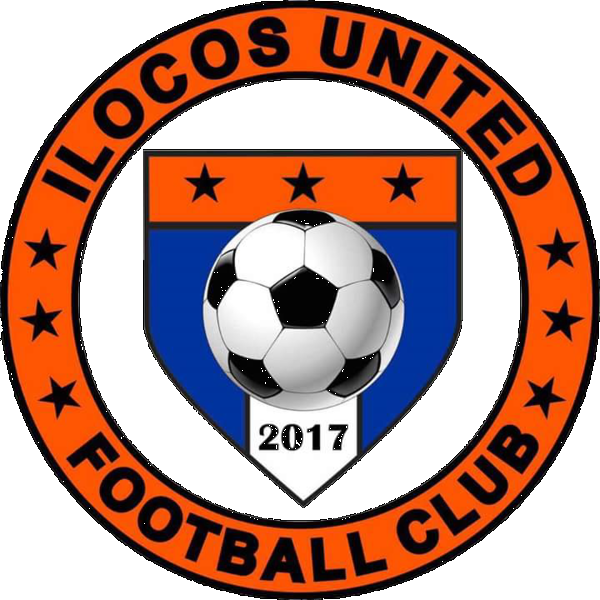
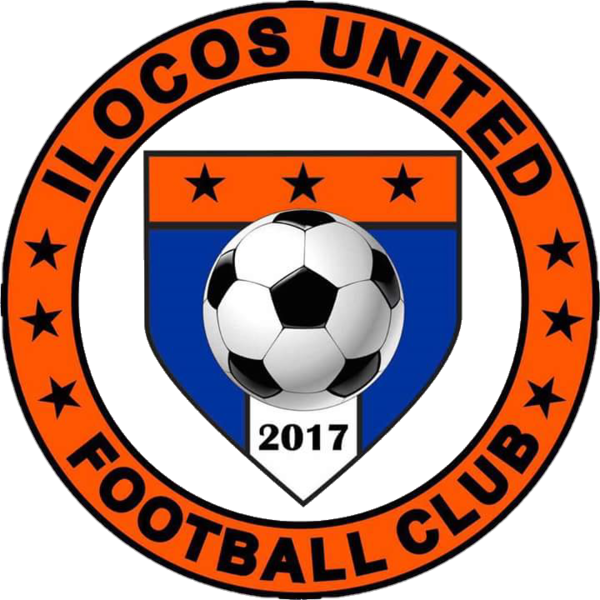
Fixed & optimized image assets

diff --git a/module-1/capstone1/index.html b/module-1/capstone1/index.html
@@ -48,49 +48,49 @@
 
 		  		<div class="crest-icon hvr-grow" id="ceres">
 		  			<a href="ceres.html">
-		  				<img src="images/crests/Ceres_Negros.png" alt="Ceres-Negros FC logo">
+		  				<img src="images/crests/Ceres_Negros_small.png" alt="Ceres-Negros FC logo">
 			  		</a>
 			  	</div>
 
 			  	<div class="crest-icon hvr-grow" id="davao">
 		  			<a href="davao.html">
-		  				<img src="images/crests/Davao_Aguilas.png" alt="Davao Aguilas FC logo">
+		  				<img src="images/crests/Davao_Aguilas_small.png" alt="Davao Aguilas FC logo">
 			  		</a>
 			  	</div>
 
 			  	<div class="crest-icon hvr-grow" id="global">
 		  			<a href="global.html">
-		  				<img src="images/crests/Global_Cebu.png" alt="Global Cebu FC logo">
+		  				<img src="images/crests/Global_Cebu_small.png" alt="Global Cebu FC logo">
 			  		</a>
 			  	</div>
 
 			  	<div class="crest-icon hvr-grow" id="ilocos">
 		  			<a href="ilocos.html">
-		  				<img src="images/crests/Ilocos_United.png" alt="Ilocos United FC logo">
+		  				<img src="images/crests/Ilocos_United_small.png" alt="Ilocos United FC logo">
 			  		</a>
 			  	</div>
 
 			  	<div class="crest-icon hvr-grow" id="jpv">
 		  			<a href="jpv.html">
-		  				<img src="images/crests/JPV_Marikina.png" alt="JPV Marikina FC logo">
+		  				<img src="images/crests/JPV_Marikina_small.png" alt="JPV Marikina FC logo">
 			  		</a>
 			  	</div>
 
 			  	<div class="crest-icon hvr-grow" id="kaya">
 		  			<a href="kaya.html">
-		  				<img src="images/crests/Kaya_FC_Makati.png" alt="Kaya FC-Makati logo">
+		  				<img src="images/crests/Kaya_FC_Makati_small.png" alt="Kaya FC-Makati logo">
 			  		</a>
 			  	</div>
 
 			  	<div class="crest-icon hvr-grow" id="meralco">
 		  			<a href="meralco.html">
-		  				<img src="images/crests/Meralco_Manila.png" alt="FC Meralco Manila logo">
+		  				<img src="images/crests/Meralco_Manila_small.png" alt="FC Meralco Manila logo">
 			  		</a>
 			  	</div>
 
 			  	<div class="crest-icon hvr-grow" id="stallion">
 		  			<a href="stallion.html">
-		  				<img src="images/crests/Stallion_Laguna.png" alt="Stallion Laguna FC logo">
+		  				<img src="images/crests/Stallion_Laguna_small.png" alt="Stallion Laguna FC logo">
 			  		</a>
 			  	</div>
 

diff --git a/module-1/capstone1/jpv.html b/module-1/capstone1/jpv.html
@@ -484,7 +484,7 @@
 	      
 	    <figure>
 
-	        <img src="images/grounds/marikina.jpg" alt="Marikina Sports Complex" class="img-responsive center-block">
+	        <img src="images/grounds/marikina.JPG" alt="Marikina Sports Complex" class="img-responsive center-block">
 
 	    </figure>
 	      
